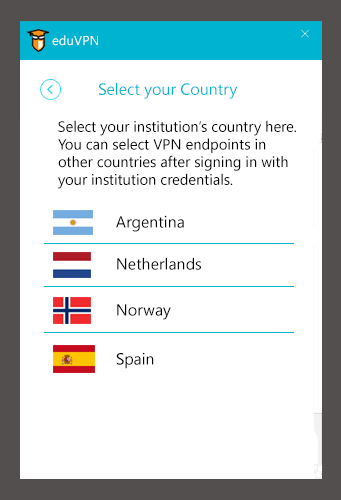
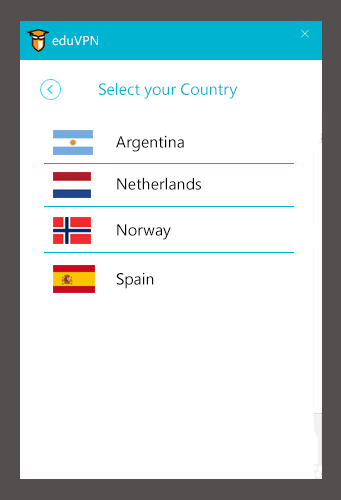
Update to styling version 3.1
* Fixed #3
* Logo and banner text font added.
* Made most instructional text in the app smaller and simpler.
* Made 'VPN type', 'Provider' and 'Profile' consistent across all apps.
* Made the styling compatible with multiple themes. This in preperation for using the styling for Let's Connect!.
* Changed 'institution' to 'organization'.

diff --git a/styling/README.md b/styling/README.md
@@ -1,16 +1,16 @@
-# Styling version 3
-This is the third iteration of the app and UI styling in the eduVPN project.
+# Styling version 3.1
+This is the third iteration of the app and UI styling in the eduVPN project. There has been one update (3.1) since with small improvements. In the bottom of this page you will find the changelog.
 
 ## General impression
 ![Overview styling version 3](overview.png)
 
 ## Use cases
-The styling is intended for all eduVPN applications. Currently this means the eduVPN for Windows and eduVPN for Android clients. We are also working on MacOS, iOS and Linux.
+The styling is intended for all eduVPN applications. Currently this means the eduVPN for Windows and eduVPN for Android clients. We are also working on MacOS, iOS and Linux. Additionally to eduVPN, this styling will also be used for the Let's Connect! apps.
 
 ## Behaviour
-* On first use, the user is presented the 'Choose your profile' screen. 
+* On first use, the user is presented the 'Select your VPN type' screen. 
 * When at least one profile has been previously added, the user will see the 'Connect' screen where he/she can connect to the previously added profile or add another (new profile) to the list.
-* When the user already has Secure Internet Profiles loaded, the 'Choose your profile' screen will only show the 'Institute Access' and 'Add another address' buttons as shown in `0-select-profile-access-only.png`.
+* When the user already has Secure Internet profiles loaded, the 'Select your profile' screen will only show the 'Institute Access' and 'Add another address' buttons as shown in `0-select-profile-access-only.png`.
 
 # Guidelines
 ## Windows
@@ -19,4 +19,9 @@ The styling is intended for all eduVPN applications. Currently this means the ed
 ## Android
 * The font used is Open Sans.
 
+## Logo and banner
 This page will be elaborated at a later point. For more information about the styling, please look at the Styling version 2 [requirements document](https://github.com/eduvpn/documentation/tree/master/app/windows).
+* Made 'VPN type', 'Provider' and 'Profile' consistent across all apps.
+* Made the styling compatible with multiple themes. This in preperation for using the styling for Let's Connect!.
+* Changed 'institution' to 'organization'.
+* Made text in different parts of the app more consistent.
